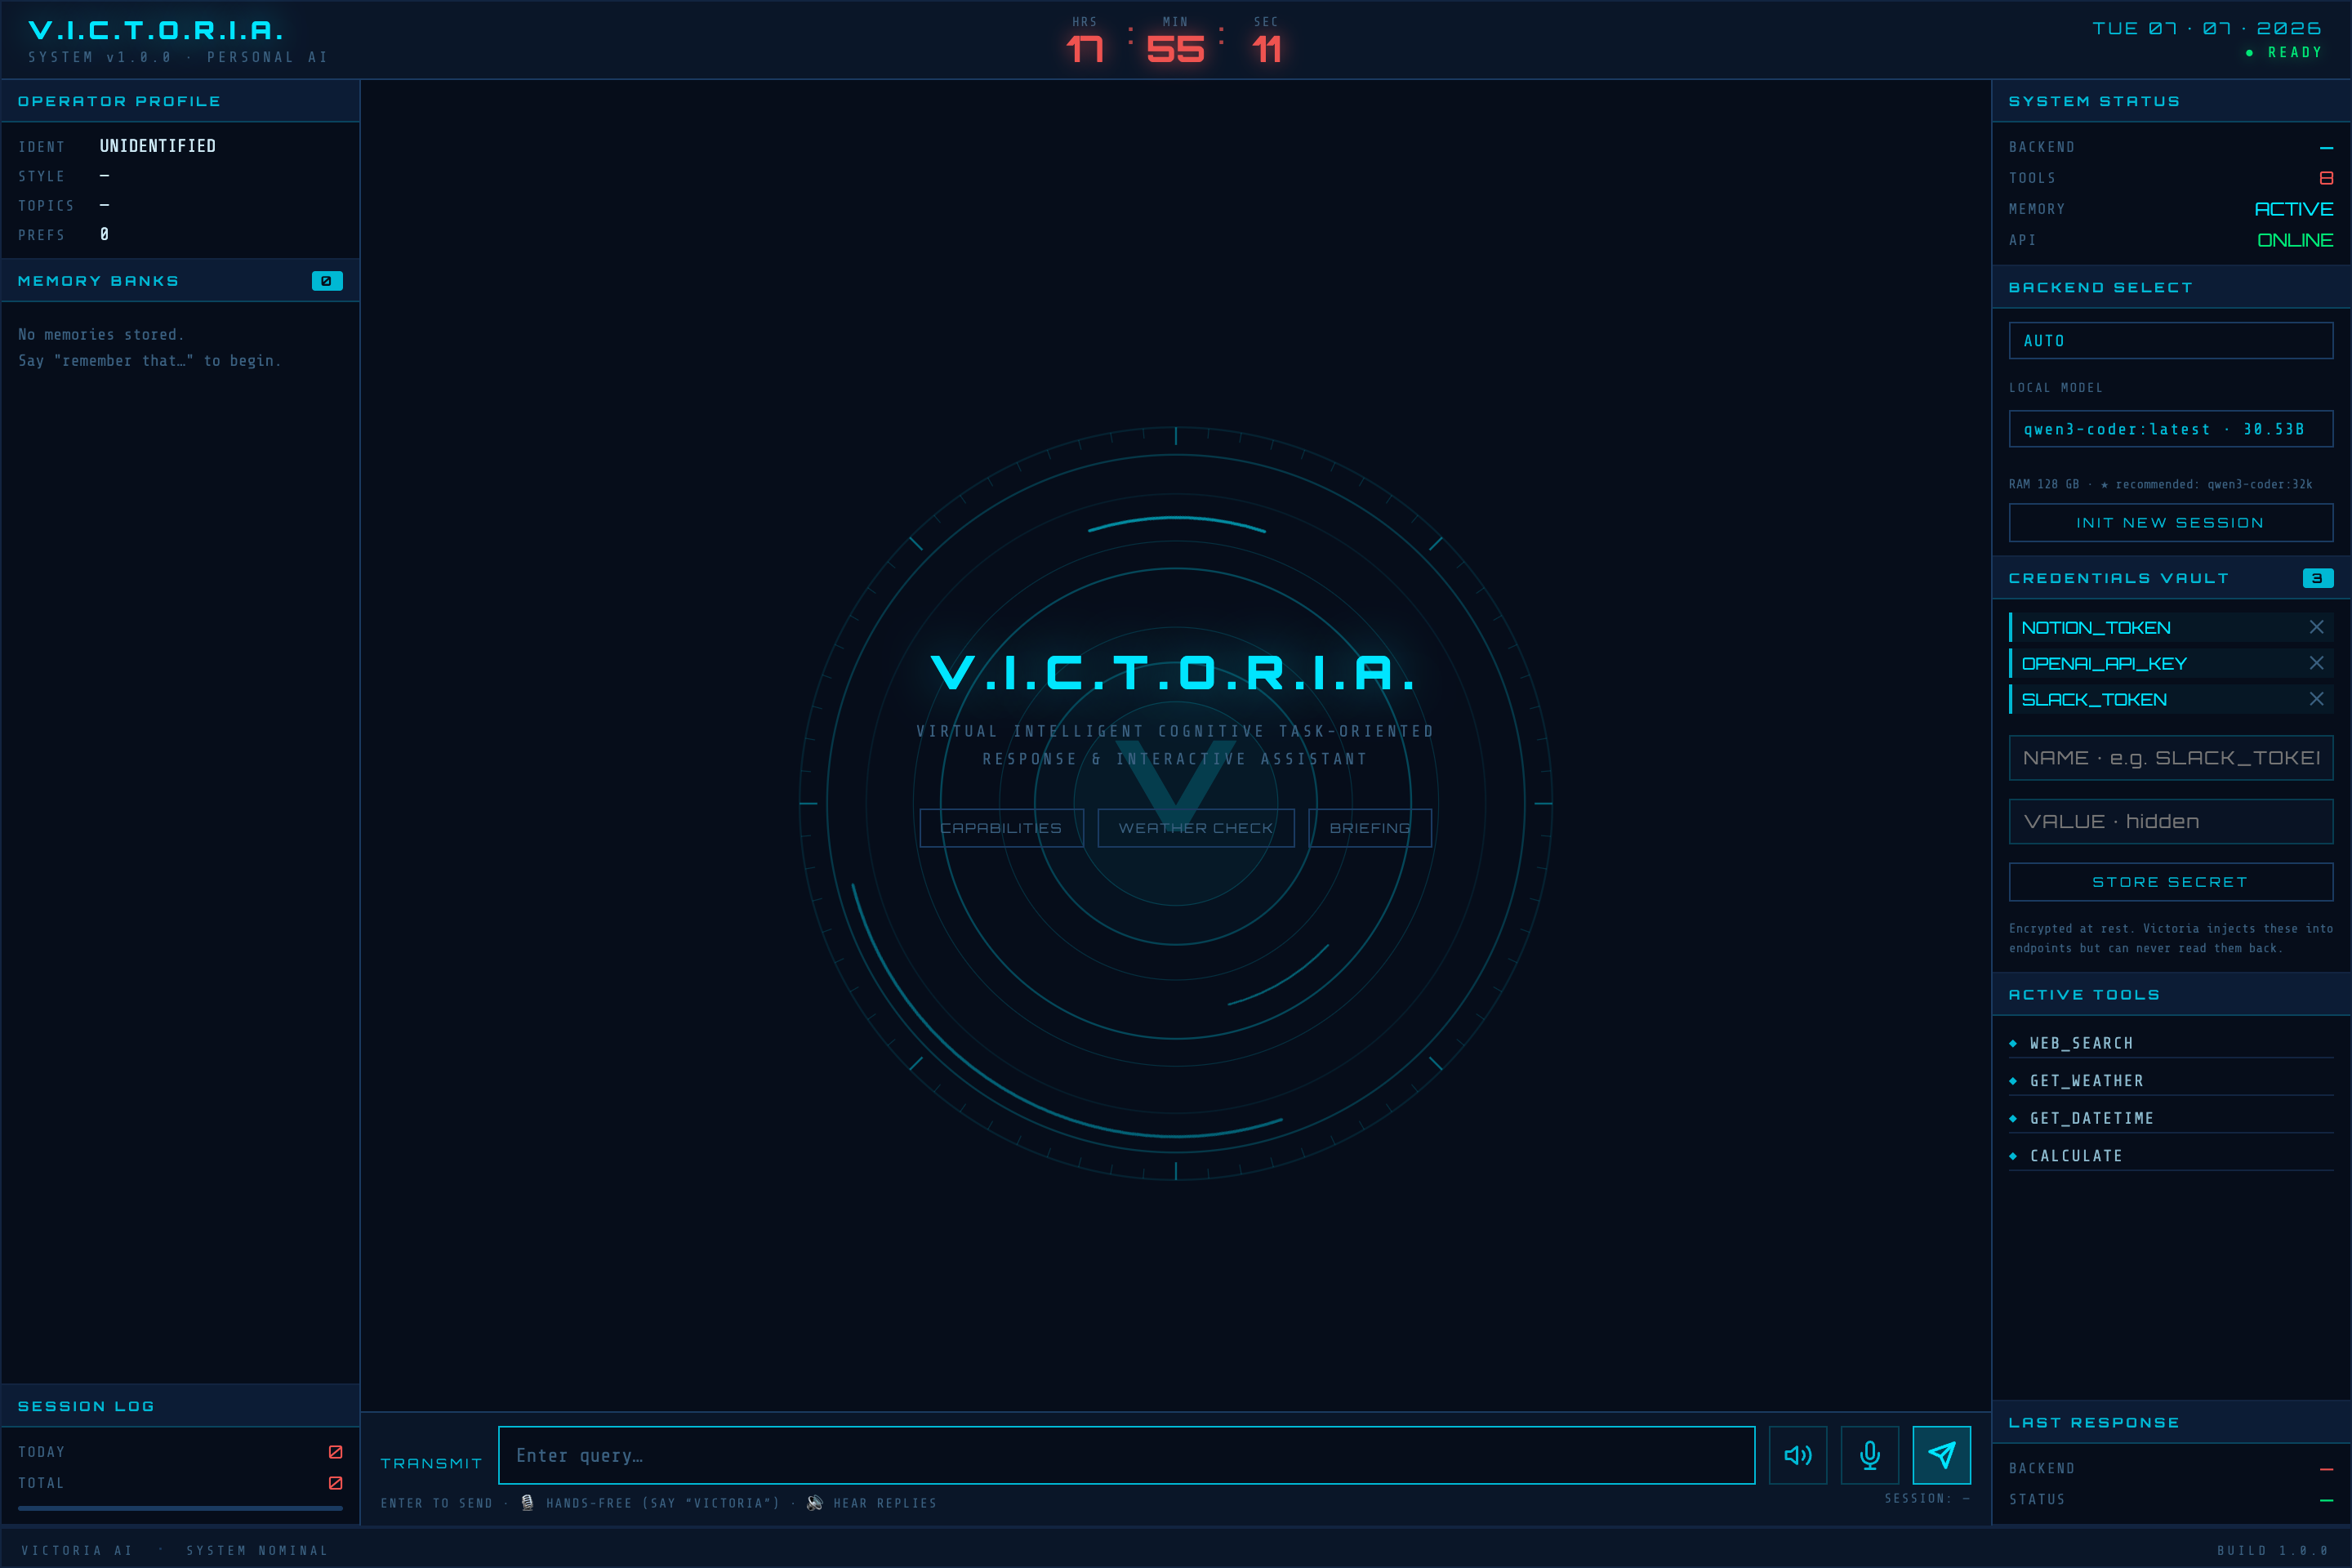
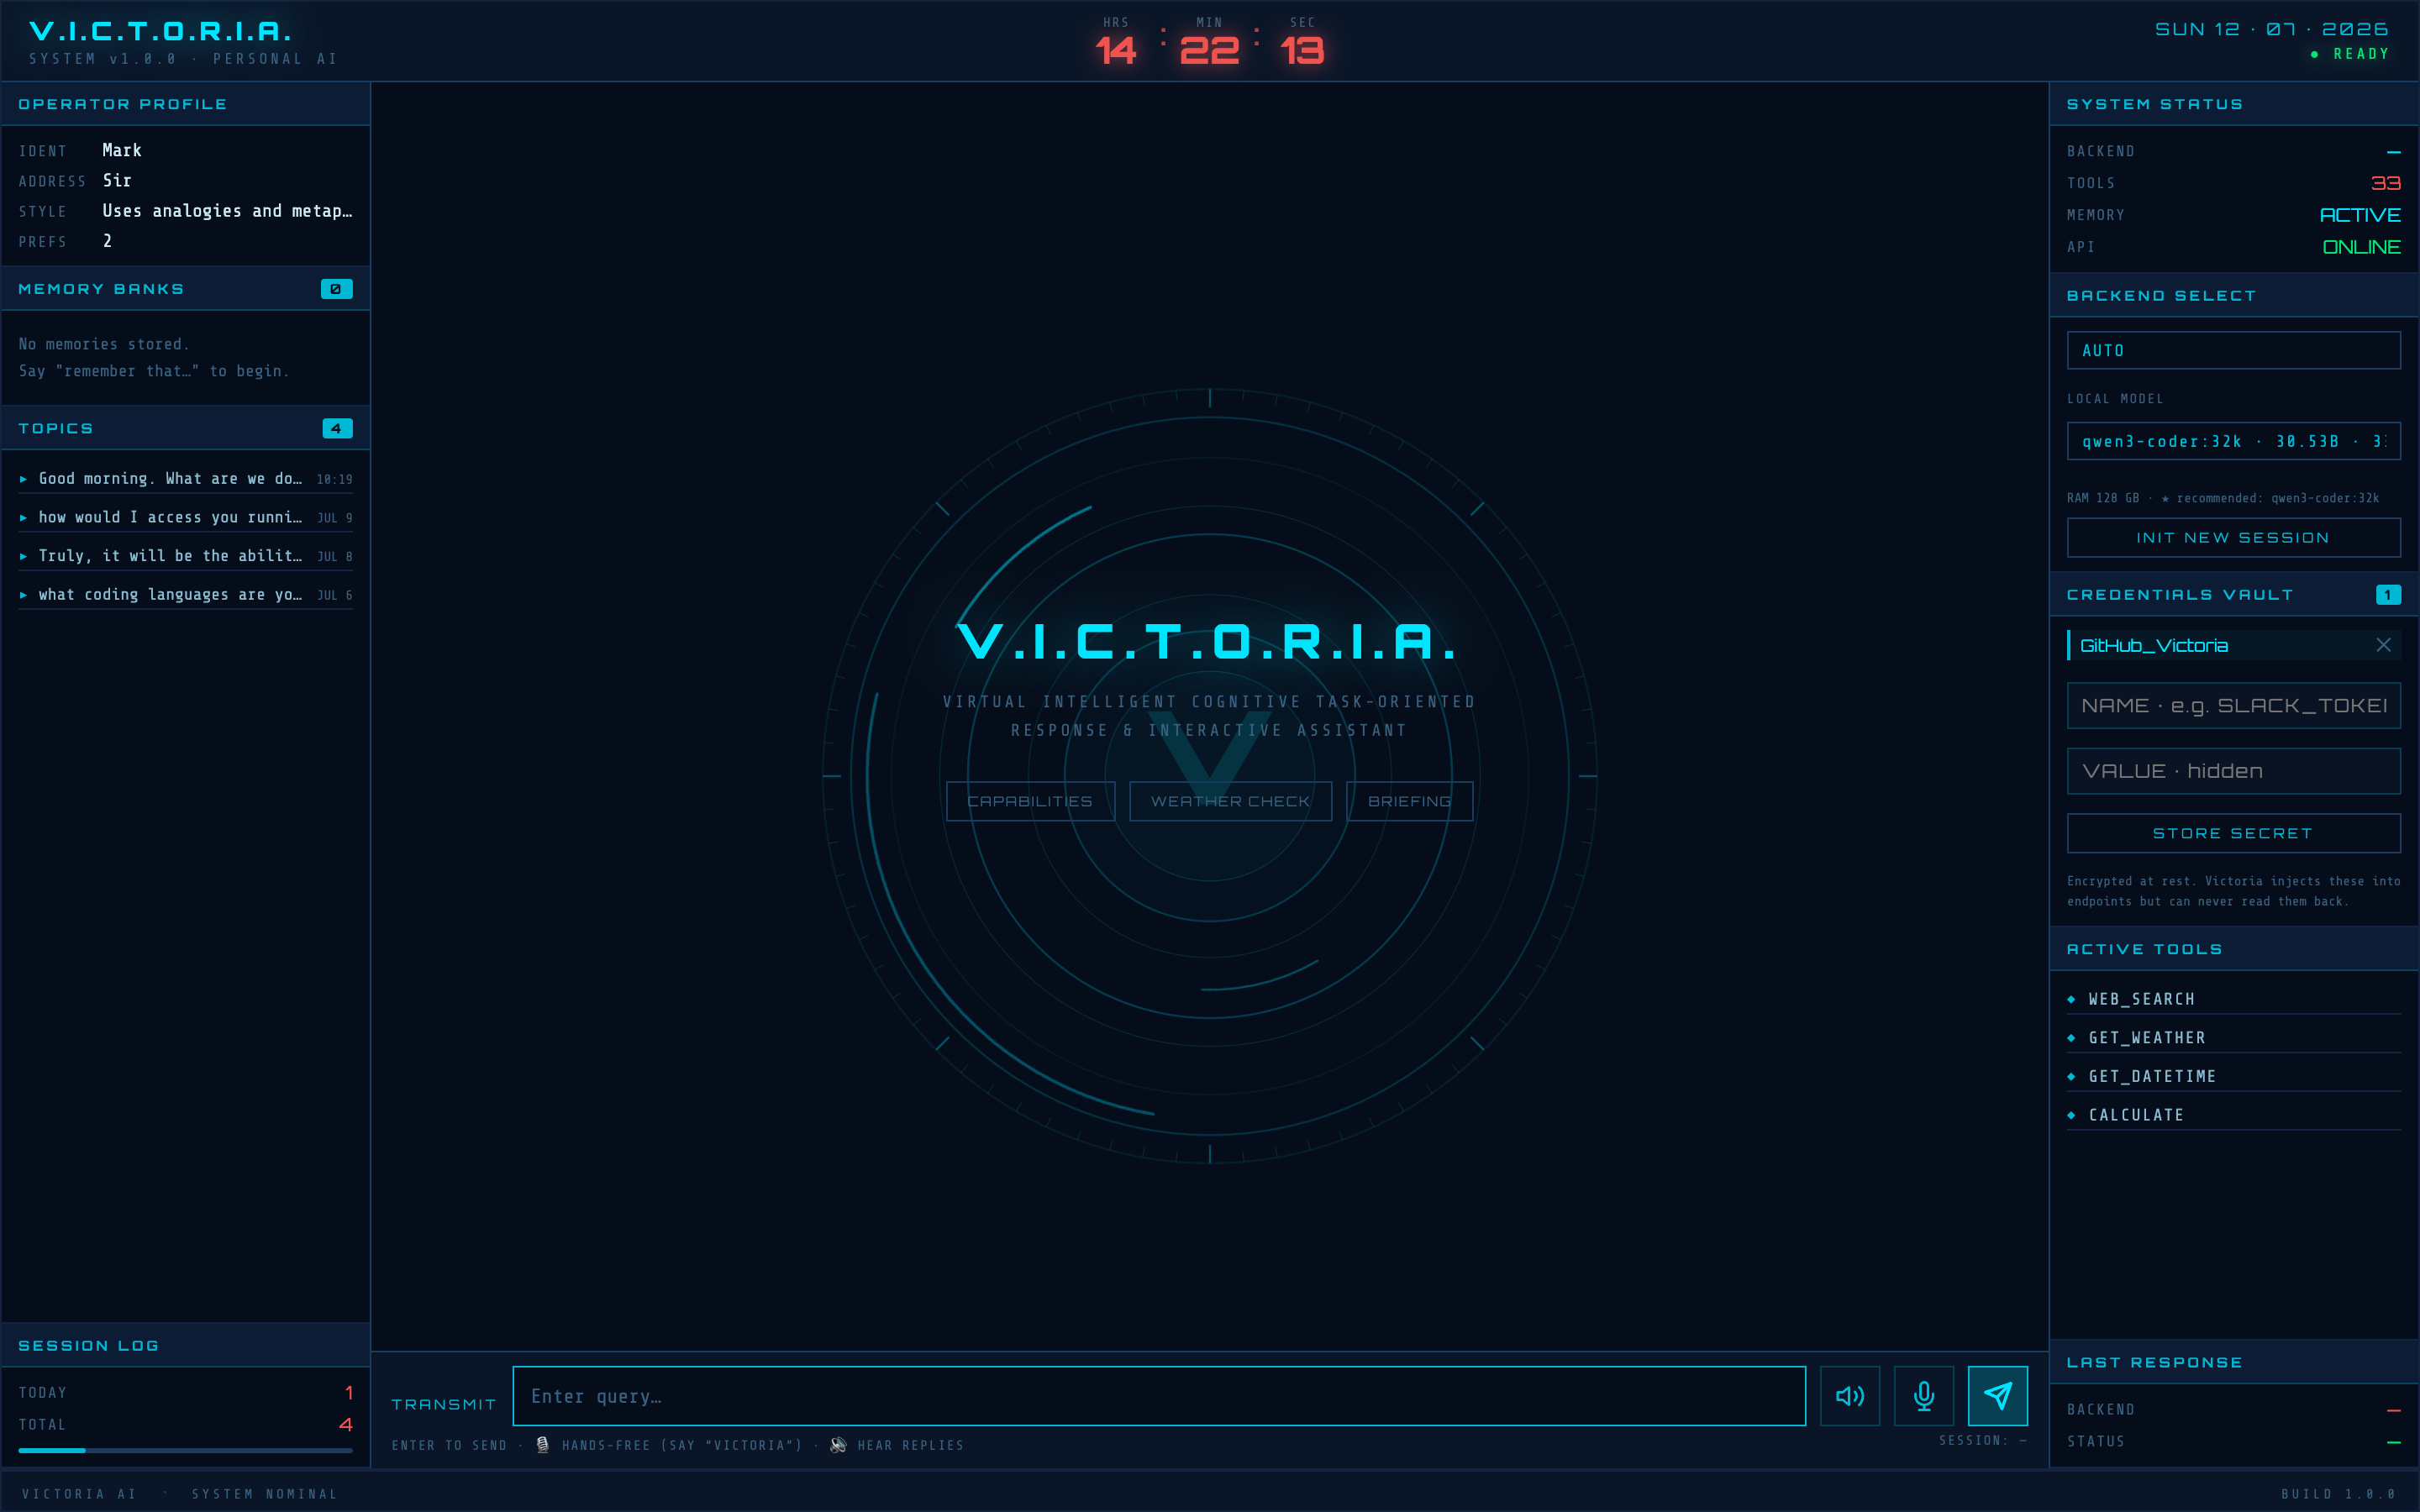
docs: bring README current with onboarding, Topics, claude-login + fresh HUD shot (#33)
Reconcile README drift after recent features (core architecture unchanged):
- Regenerate docs/screenshots/hud.png — now shows the current sidebar
  (Operator Profile name/address, Topics chat-history panel).
- HUD sidebar description: Operator Profile identity + first-run onboarding
  modal + Topics (chat history, click to reopen).
- File-tree: add scripts/claude-login.sh; note start.sh's Claude-auth preflight.
- Test count 277 -> 278.

diff --git a/README.md b/README.md
@@ -52,11 +52,12 @@ victoria-ai/
 │   ├── chat.py                 # Terminal chat client
 │   ├── run_telegram.py         # Telegram bot runner
 │   ├── run_voice.py            # Voice interface runner
-│   ├── start.sh                # Native launcher — self-heals the Model Runner, then starts the server
+│   ├── start.sh                # Native launcher — self-heals the Model Runner, Claude-auth preflight, then starts the server
 │   ├── update.sh               # One-command native updater
-│   └── ensure-model-runner.sh  # Re-bind the Docker Model Runner host-TCP port if it drops
+│   ├── ensure-model-runner.sh  # Re-bind the Docker Model Runner host-TCP port if it drops
+│   └── claude-login.sh         # Authenticate Claude escalation (subscription login or token)
 ├── skills/                     # Bundled skills (email-drafter, meeting-summariser, code_reviewskill)
-├── tests/                      # 277 pytest tests
+├── tests/                      # 278 pytest tests
 ├── setup-victoria-mac.sh       # One-command macOS installer
 ├── docker-compose.yml
 ├── Dockerfile
@@ -332,8 +333,9 @@ Open **http://localhost:8000** in your browser.
 The interface is a full-screen dark HUD inspired by the Iron Man JARVIS OS — dark navy background, teal panel headers, red digit clock, and a rotating arc reactor ring as the chat backdrop.
 
 **Left sidebar**
-- Operator profile — name, communication style, topic count, preference count
+- Operator profile — your name, how she should address you, learned communication style, preference count. On first run a one-time **"Identify Operator"** modal asks your name and how you'd like to be addressed
 - Memory banks — live list of all stored explicit memories
+- Topics — your chat history: each past conversation, newest first; click one to reopen it. Starting a new chat archives the current one here
 - Session log — today's and total session counts with a fill bar
 
 **Center**
@@ -659,4 +661,4 @@ PIP_REQUIRE_HASHES=false pip install -r requirements.txt
 python3 -m pytest tests/ -v
 ```
 
-277 tests across memory & semantic recall, conversation, tools & tool-calling, local-first escalation, skills & GitHub import, MCP, the credentials vault, model selection, voice (transcribe / TTS / wake-word), Telegram, user profiles, and API layers.
+278 tests across memory & semantic recall, conversation, tools & tool-calling, local-first escalation, skills & GitHub import, MCP, the credentials vault, model selection, voice (transcribe / TTS / wake-word), Telegram, user profiles, and API layers.